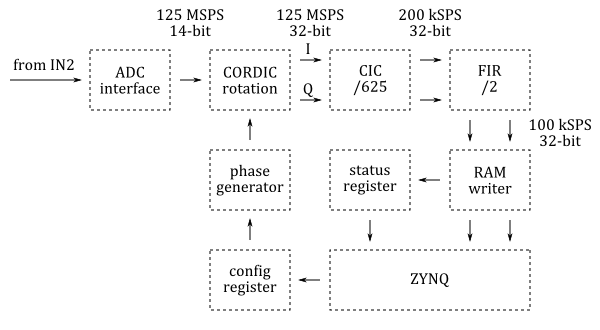
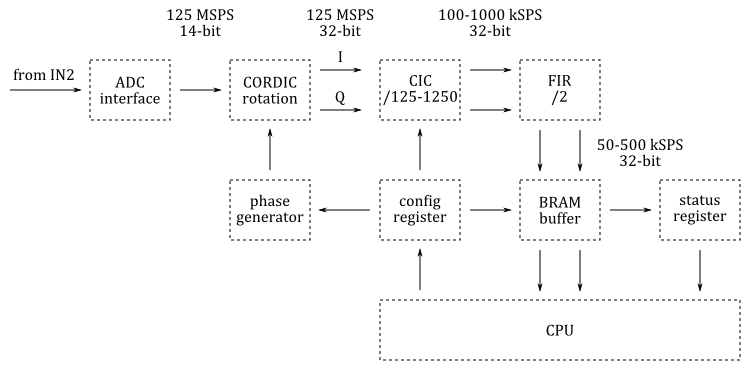
merge sdr-receiver-nodma and sdr-receiver

diff --git a/sdr-receiver.md b/sdr-receiver.md
@@ -15,35 +15,56 @@ Some interesting links on digital signal processing and software defined radio:
 
  - [GNU Radio - Suggested Reading](http://gnuradio.org/redmine/projects/gnuradio/wiki/SuggestedReading)
 
-Digital Down Converter
+Updates
 -----
 
-[Red Pitaya](http://redpitaya.com) has all the components of a Software Defined Radio (SDR). In order to test its performance, I've implemented a Digital Down Converter (DDC) following [Xilinx application note 1113](http://www.xilinx.com/support/documentation/application_notes/xapp1113.pdf). The basic blocks of this converter are shown on the following diagram:
+This page describes an updated version of the SDR receiver running on the Red Pitaya open-source instrument.
+
+It is now compatible with the Red Pitaya Ecosystem and can be installed on the original Red Pitaya SD card.
+
+Short description
+-----
+
+The implementation of the SDR receiver is quite straightforward:
+
+ - An antenna is connected to one of the high-impedance analog inputs.
+ - The on-board ADC (125 MS/s sampling frequency, 14-bit resolution) digitizes the RF signal from the antenna.
+ - The data coming from the ADC is processed by a in-phase/quadrature (I/Q) digital down-converter (DDC) running on the Red Pitaya's FPGA.
+ - The I/Q data is transmitted via TCP to the SDR programs such as SDR# and HDSDR.
+
+The tunable frequency range covers from 50 kHz to 50 MHz.
+
+The I/Q data rate is configurable and four settings are available: 50, 100, 250 and 500 kSPS.
+
+Digital down-converter
+-----
+
+The basic blocks of the digital down-converter (DDC) are shown on the following diagram:
 
 ![SDR receiver]({{ "/img/sdr-receiver.png" | prepend: site.baseurl }})
 
-I/Q demodulator is implemented using the [CORDIC algorithm](http://www.xilinx.com/products/intellectual-property/cordic.html). [CIC filter](http://www.xilinx.com/products/intellectual-property/cic_compiler.html) is used to decrease the data rate by a factor of 625. [FIR filter](http://www.xilinx.com/products/intellectual-property/fir_compiler.html) compensates for the drop in the CIC frequency response, filters out frequencies above 50 kHz and reduces the data rate by a factor of two.
+The in-phase/quadrature (I/Q) demodulator is implemented using the [CORDIC algorithm](http://www.xilinx.com/products/intellectual-property/cordic.html). [CIC filter](http://www.xilinx.com/products/intellectual-property/cic_compiler.html) is used to decrease the data rate by a configurable factor within the range from 125 to 1250. [FIR filter](http://www.xilinx.com/products/intellectual-property/fir_compiler.html) compensates for the drop in the CIC frequency response, filters out high frequencies and reduces the data rate by a factor of two.
 
 FIR filter coefficients are calculated with the following code in [R](http://www.r-project.org):
 {% highlight R %}
 library(signal)
 
 # CIC filter parameters
-R <- 625                       # Decimation factor
+R <- 125                       # Decimation factor
 M <- 1                         # Differential delay
 N <- 6                         # Number of stages
 
-Fo <- 0.23                     # Pass band edge; 46 kHz
+Fo <- 0.22                     # Pass band edge; 220 kHz
 
 # fir2 parameters
-k <- kaiserord(c(Fo, Fo+0.01), c(1, 0), 1/(2^16), 1)
+k <- kaiserord(c(Fo, Fo+0.02), c(1, 0), 1/(2^16), 1)
 L <- k$n                       # Filter order
 Beta <- k$beta                 # Kaiser window parameter
 
 # FIR filter design using fir2
 s <- 0.001                     # Step size
 fp <- seq(0.0, Fo, by=s)       # Pass band frequency samples
-fs <- seq(Fo+0.01, 0.5, by=s)  # Stop band frequency samples
+fs <- seq(Fo+0.02, 0.5, by=s)  # Stop band frequency samples
 f <- c(fp, fs)*2               # Normalized frequency samples; 0<=f<=1
 
 Mp <- matrix(1, 1, length(fp)) # Pass band response; Mp[1]=1
@@ -62,7 +83,7 @@ To get an idea of the combined (CIC and FIR) filter response, the following figu
 
 The [projects/sdr_receiver](https://github.com/pavel-demin/red-pitaya-notes/tree/master/projects/sdr_receiver) directory contains one Tcl file [block_design.tcl](https://github.com/pavel-demin/red-pitaya-notes/blob/master/projects/sdr_receiver/block_design.tcl) that instantiates, configures and interconnects all the needed IP cores.
 
-The [projects/sdr_receiver/multicast](https://github.com/pavel-demin/red-pitaya-notes/tree/master/projects/sdr_receiver/multicast) directory contains one C program [sdr-receiver.c](https://github.com/pavel-demin/red-pitaya-notes/blob/master/projects/sdr_receiver/multicast/sdr-receiver.c). This program transmits the I/Q data stream (2 x 32 bit x 100 kSPS = 6.1 Mbit/s) via IP multicast and receives multicast packets containing control commands and frequency of the sine and cosine waves used for the I/Q demodulation. By default, the multicast address is `239.0.0.39`, the port number for the control commands and for the frequency information is `1001`, the port number for the I/Q data stream is `1002`.
+The [projects/sdr_receiver/server](https://github.com/pavel-demin/red-pitaya-notes/tree/master/projects/sdr_receiver/server) directory contains the source code of the TCP server ([sdr-receiver.c](https://github.com/pavel-demin/red-pitaya-notes/blob/master/projects/sdr_receiver/server/sdr-receiver.c)) that transmits the I/Q data stream (up to 2 x 32 bit x 500 kSPS = 30.5 Mbit/s) to the SDR programs and receives commands to configure the decimation rate and the frequency of the sine and cosine waves used for the I/Q demodulation.
 
 User interface
 -----
@@ -78,7 +99,7 @@ Based on the [example ExtIO DLL](http://hdsdr.de/download/ExtIO/ExtIO_Demo_101.z
 
 The ExtIO plug-in can be built from the source code with [Microsoft Visual C++ 2008 Express Edition](http://go.microsoft.com/?linkid=7729279).
 
-A pre-built ExtIO plug-in for the Red Pitaya SDR receiver can be downloaded from [this link](https://googledrive.com/host/0B-t5klOOymMNfmJ0bFQzTVNXQ3RtWm5SQ2NGTE1hRUlTd3V2emdSNzN6d0pYamNILW83Wmc/ExtIO_RedPitaya.dll).
+A pre-built ExtIO plug-in for the Red Pitaya SDR receiver can be downloaded from [this link](https://googledrive.com/host/0B-t5klOOymMNfmJ0bFQzTVNXQ3RtWm5SQ2NGTE1hRUlTd3V2emdSNzN6d0pYamNILW83Wmc/SDR/ExtIO_RedPitaya.dll).
 
 For both SDR# and HDSDR, the `ExtIO_RedPitaya.dll` file should be copied to the directory where the program is installed and the program will recognize it automatically at start-up.
 
@@ -105,42 +126,23 @@ Getting started
 
  - Requirements:
    - Computer running MS Windows.
-   - Wired Ethernet connection between the computer and the Red Pitaya board.
+   - Wired or wireless Ethernet connection between the computer and the Red Pitaya board.
  - Connect an antenna to the IN2 connector on the Red Pitaya board.
- - Download [pre-built SD card image](https://googledrive.com/host/0B-t5klOOymMNfmJ0bFQzTVNXQ3RtWm5SQ2NGTE1hRUlTd3V2emdSNzN6d0pYamNILW83Wmc/red-pitaya-sdr-receiver-20150221.zip).
- - Write it to a SD card using [Win32 Disk Imager](http://sourceforge.net/projects/win32diskimager/).
- - Insert the newly created SD card in Red Pitaya and connect the power.
+ - Download [FPGA configuration file](https://googledrive.com/host/0B-t5klOOymMNfmJ0bFQzTVNXQ3RtWm5SQ2NGTE1hRUlTd3V2emdSNzN6d0pYamNILW83Wmc/SDR/sdr_receiver.bin) and the [sdr-receiver program](https://googledrive.com/host/0B-t5klOOymMNfmJ0bFQzTVNXQ3RtWm5SQ2NGTE1hRUlTd3V2emdSNzN6d0pYamNILW83Wmc/SDR/sdr-receiver).
+ - Copy the downloaded files (`sdr_receiver.bin` and `sdr-receiver`) to the original Red Pitaya SD card.
+ - Edit `etc/init.d/rcS` on the SD card to add the commands that configure FPGA and start the `sdr-receiver` program:
+{% highlight bash %}
+cat /opt/sdr_receiver.bin > /dev/xdevcfg
+/opt/sdr-receiver &
+{% endhighlight %}
+ - Insert the SD card in Red Pitaya and connect the power.
  - Download and install [SDR#](http://sdrsharp.com/#download) or [HDSDR](http://www.hdsdr.de/).
- - Download [pre-built ExtIO plug-in](https://googledrive.com/host/0B-t5klOOymMNfmJ0bFQzTVNXQ3RtWm5SQ2NGTE1hRUlTd3V2emdSNzN6d0pYamNILW83Wmc/ExtIO_RedPitaya.dll) for SDR# and HDSDR.
+ - Download [pre-built ExtIO plug-in](https://googledrive.com/host/0B-t5klOOymMNfmJ0bFQzTVNXQ3RtWm5SQ2NGTE1hRUlTd3V2emdSNzN6d0pYamNILW83Wmc/SDR/ExtIO_RedPitaya.dll) for SDR# and HDSDR.
  - Copy `ExtIO_RedPitaya.dll` into the SDR# or HDSDR installation directory.
  - Start SDR# or HDSDR.
  - Select Red Pitaya SDR from the Source list in SDR# or from the Options [F7] &rarr; Select Input menu in HDSDR.
+ - Press Configure icon in SDR# or press ExtIO button in HDSDR, then type in the IP address of the Red Pitaya board and close the configuration window.
  - Press Play icon in SDR# or press Start [F2] button in HDSDR.
-
-SD card image
------
-
-The SD card image size is 512 MB, so it should fit on any SD card starting from 1 GB.
-
-To write the image to a SD card, the `dd` command-line utility can be used on GNU/Linux and Mac OS X or [Win32 Disk Imager](http://sourceforge.net/projects/win32diskimager/) can be used on MS Windows.
-
-The default user name is `root` and the default password is `changeme`.
-
-The `sdr-receiver` program is started automatically at boot. If needed, it can be started and stopped with the following commands:
-{% highlight bash %}
-start sdr-receiver
-stop sdr-receiver
-{% endhighlight %}
-
-To use the full size of a SD card, the partitions can be resized on running Red Pitaya with the following commands:
-{% highlight bash %}
-# delete second partition
-echo -e "d\n2\nw" | fdisk /dev/mmcblk0
-# recreate partition
-parted -s /dev/mmcblk0 mkpart primary ext4 16MB 100%
-# resize partition
-resize2fs /dev/mmcblk0p2
-{% endhighlight %}
 
 Building from source
 -----
@@ -161,30 +163,13 @@ git clone https://github.com/pavel-demin/red-pitaya-notes
 cd red-pitaya-notes
 {% endhighlight %}
 
-Building `u-boot.elf`, `boot.bin` and `devicetree.dtb`:
+Building `sdr_receiver.bin`:
 {% highlight bash %}
-make NAME=sdr_receiver all
+make NAME=sdr_receiver tmp/sdr_receiver.bit
+python scripts/fpga-bit-to-bin.py --flip tmp/sdr_receiver.bit sdr_receiver.bin
 {% endhighlight %}
 
 Building `sdr-receiver`:
 {% highlight bash %}
-arm-linux-gnueabihf-gcc projects/sdr_receiver/multicast/sdr-receiver.c -o sdr-receiver -lm
-{% endhighlight %}
-
-Building a bootable SD card image:
-{% highlight bash %}
-sudo sh scripts/image.sh red-pitaya-sdr-receiver.img
-{% endhighlight %}
-
-Copying `sdr-receiver` to SD card image:
-{% highlight bash %}
-device=`sudo losetup -f`
-sudo losetup $device red-pitaya-sdr-receiver.img
-sudo mkdir /tmp/ROOT
-sudo mount /dev/`lsblk -lno NAME $device | sed '3!d'` /tmp/ROOT
-sudo cp sdr-receiver /tmp/ROOT/usr/bin/
-sudo cp projects/sdr_receiver/multicast/sdr-receiver.conf /tmp/ROOT/etc/init/
-sudo umount /tmp/ROOT
-sudo rmdir /tmp/ROOT
-sudo losetup -d $device
+arm-linux-gnueabihf-gcc projects/sdr_receiver/server/sdr-receiver.c -o sdr-receiver -lm -static
 {% endhighlight %}

diff --git a/index.md b/index.md
@@ -9,4 +9,3 @@ layout: default
 1. [Development machine]({{ "/development-machine/" | prepend: site.baseurl }})
 1. [LED blinker]({{ "/led-blinker/" | prepend: site.baseurl }})
 1. [SDR receiver]({{ "/sdr-receiver/" | prepend: site.baseurl }})
-1. [SDR receiver without DMA]({{ "/sdr-receiver-nodma/" | prepend: site.baseurl }})

diff --git a/sdr-receiver-nodma.md b/sdr-receiver-nodma.md
@@ -1,7 +1,9 @@
 ---
-layout: page
+layout: redirect
 title: SDR receiver without DMA
+sitemap: false
 permalink: /sdr-receiver-nodma/
+redirect_to: /sdr-receiver/
 ---
 
 What's new
